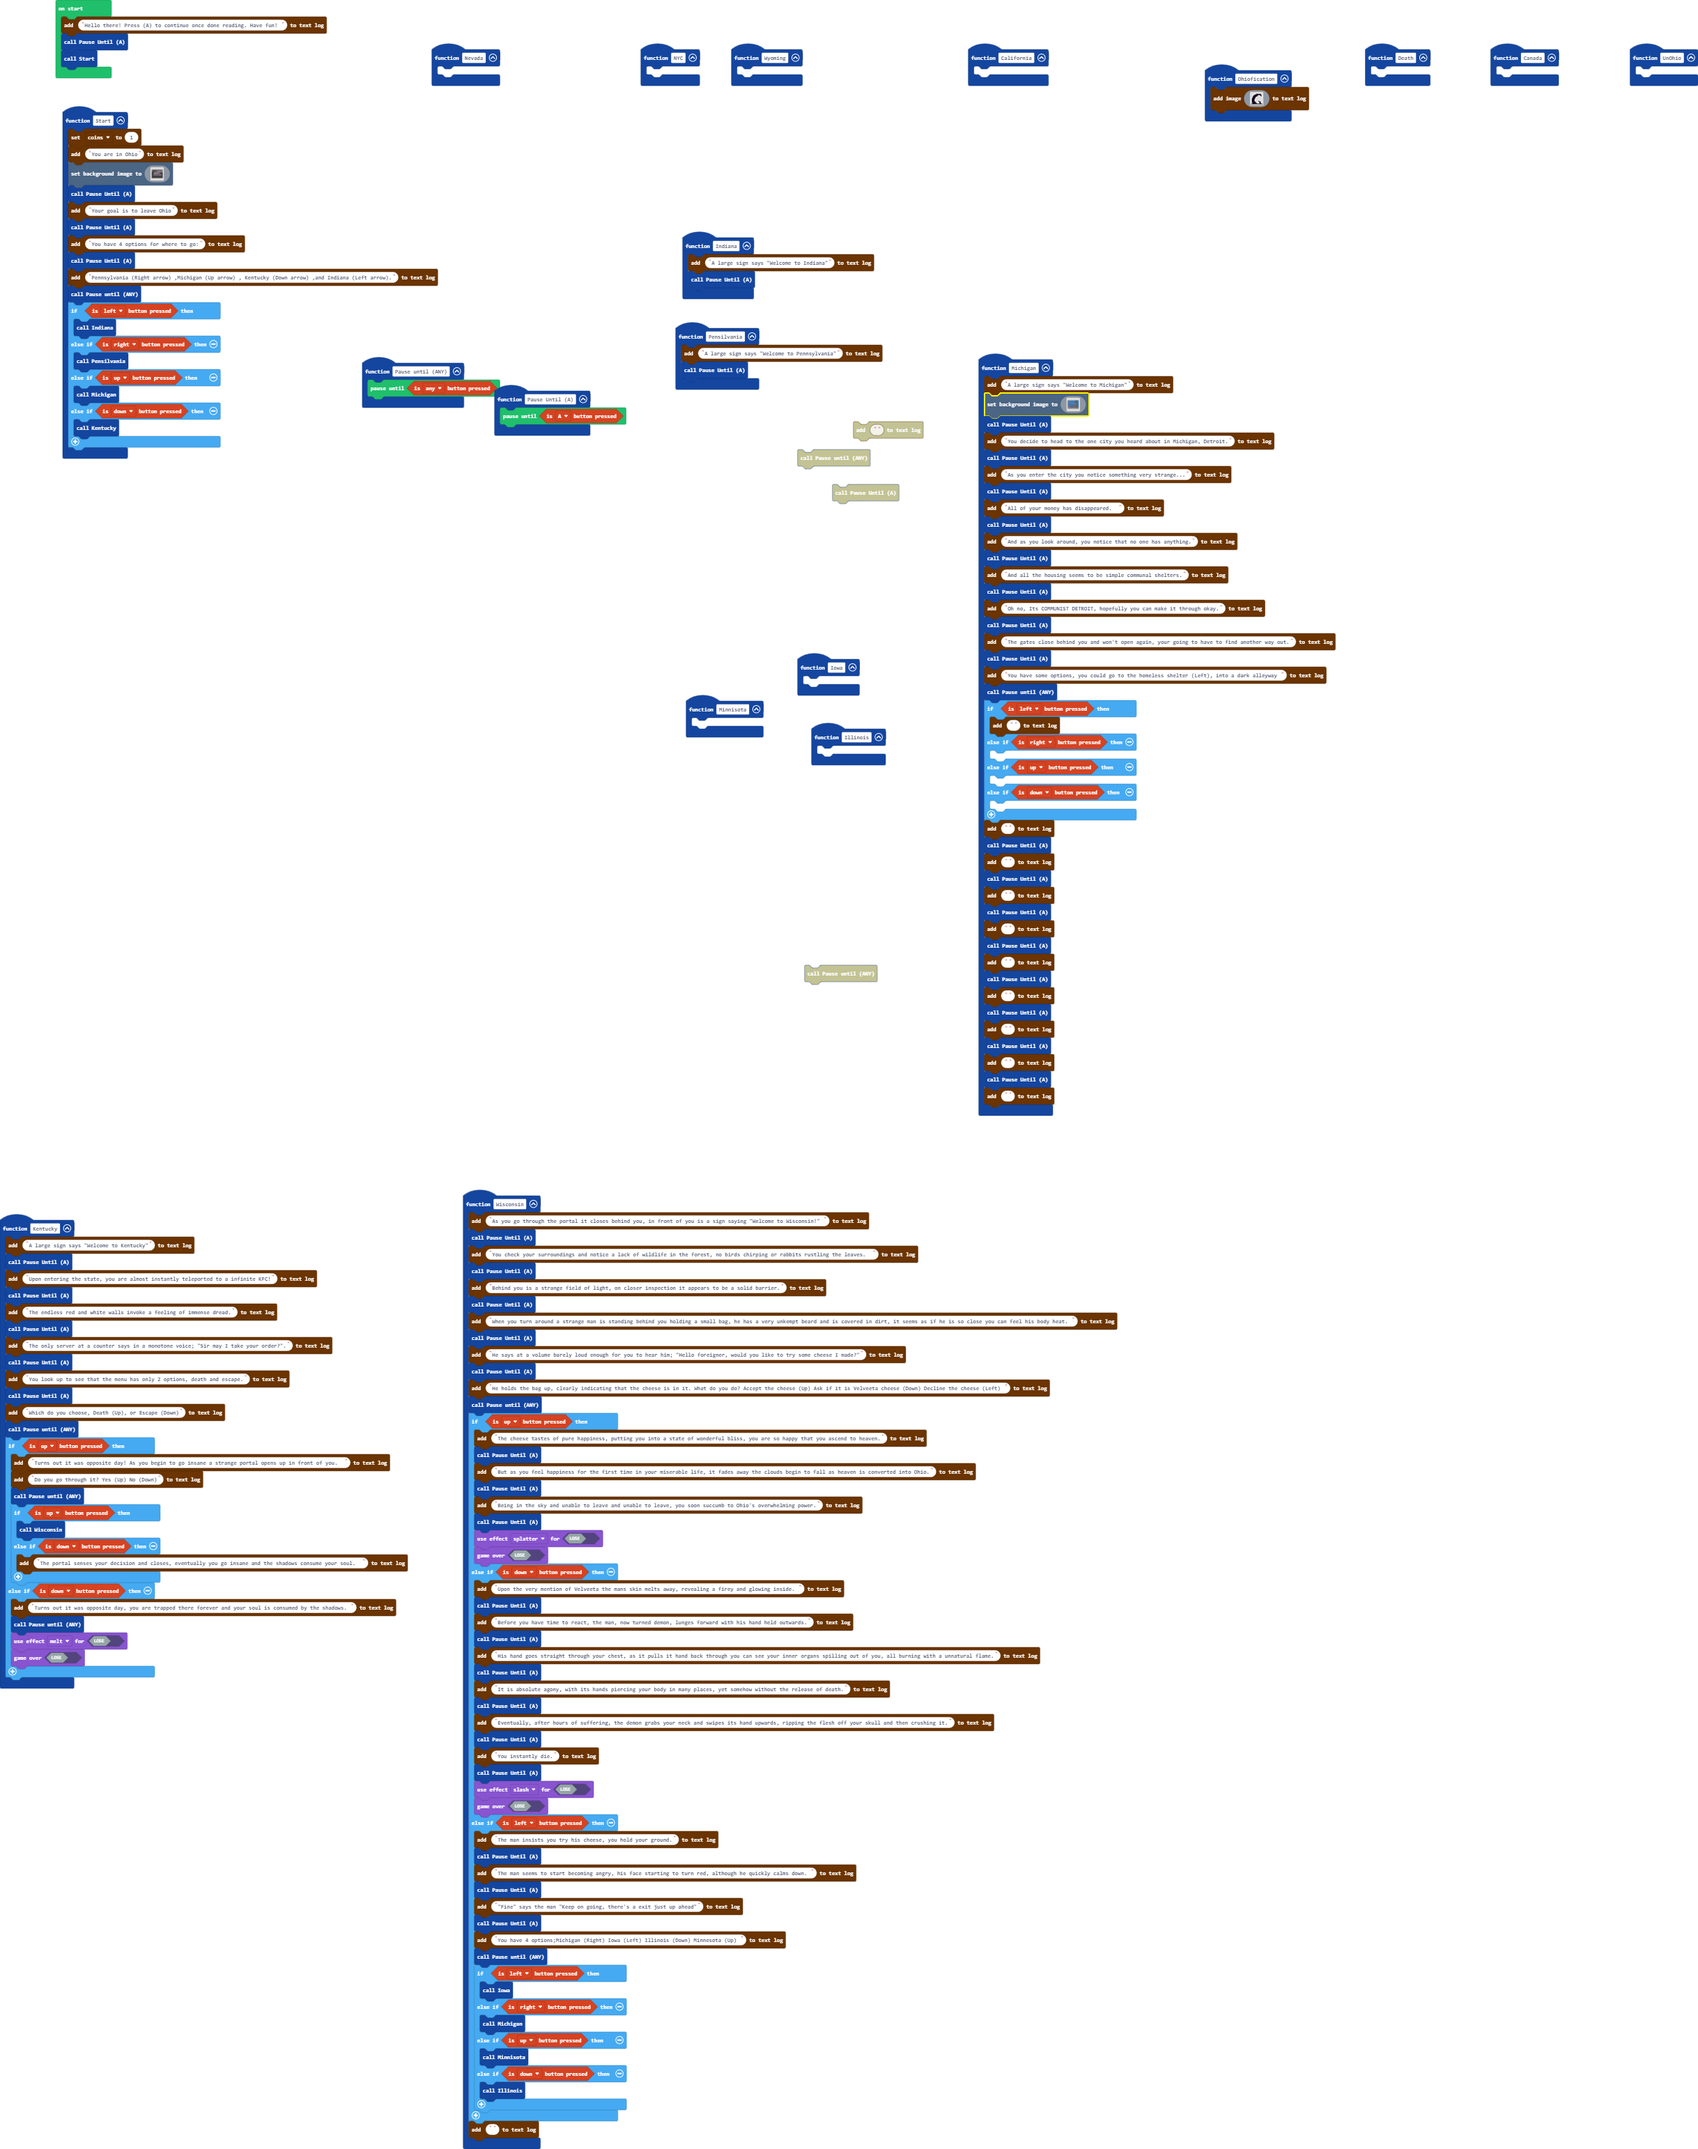
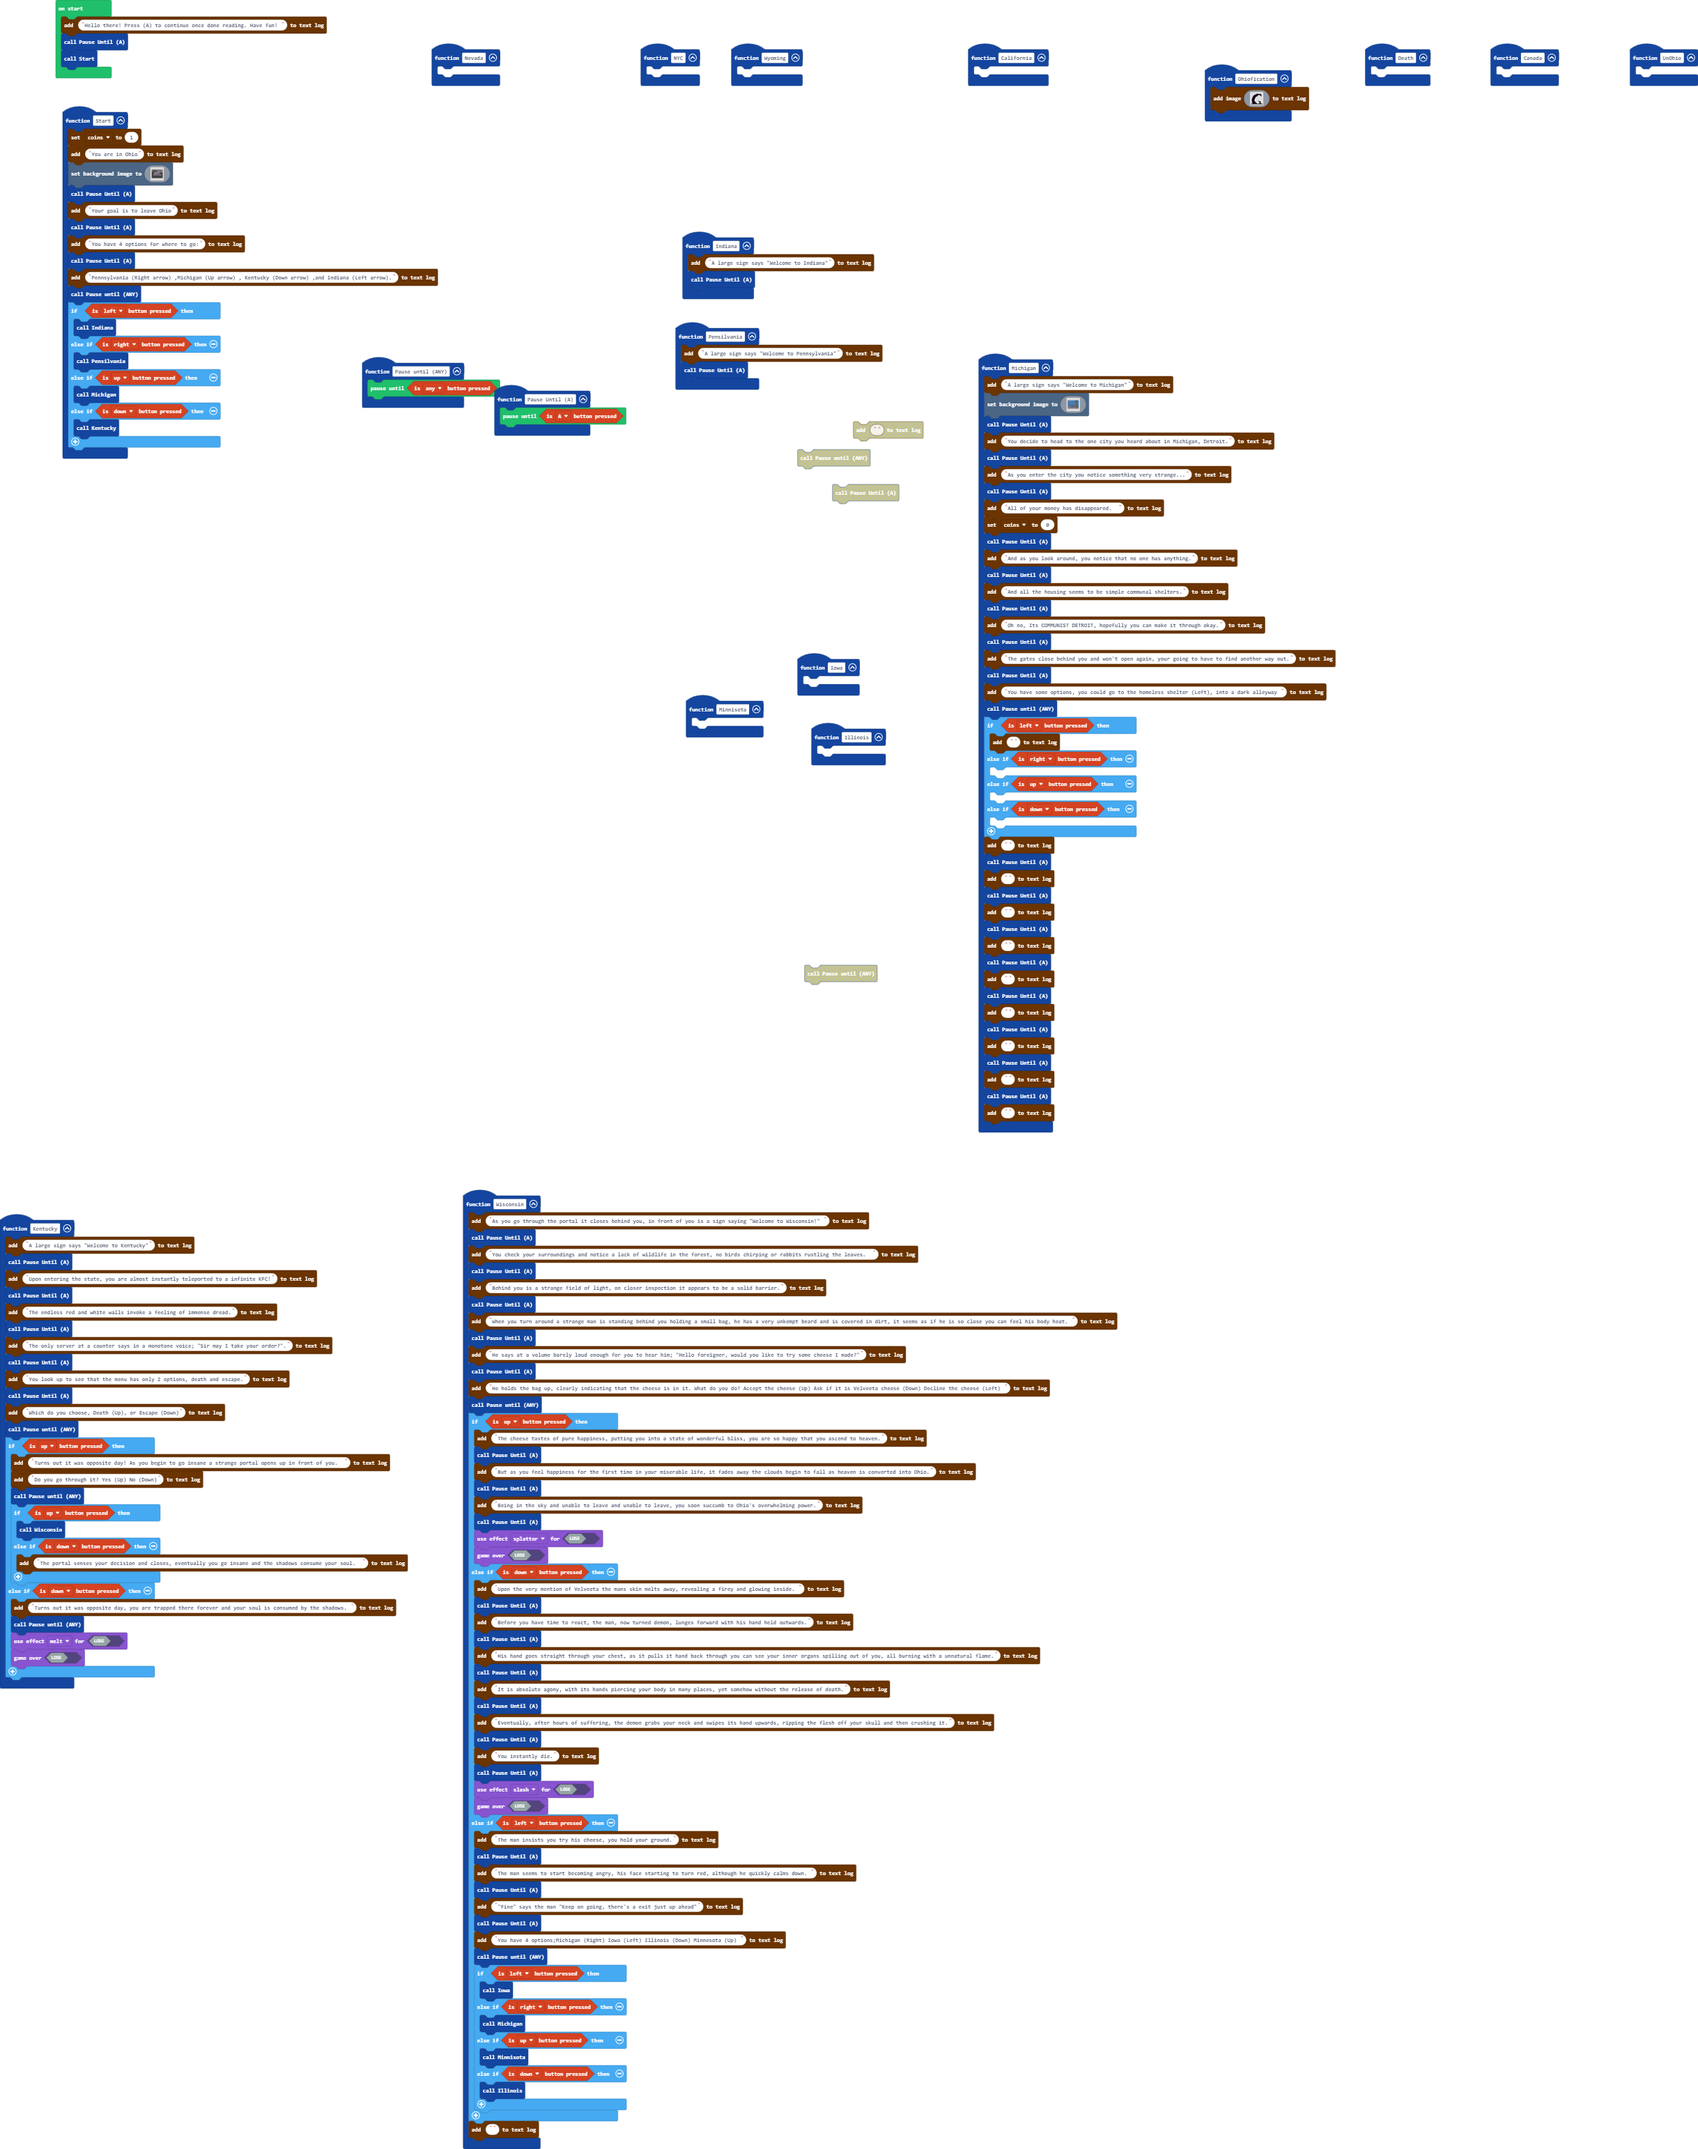
Update main.blocks, main.ts

Changed region(s): [[0.5613, 0.2179, 0.8108, 0.5292]]

diff --git a/main.ts b/main.ts
@@ -282,6 +282,7 @@ function Michigan () {
     adventure.addToTextlog("As you enter the city you notice something very strange...")
     Pause_Until_A()
     adventure.addToTextlog("All of your money has disappeared.  ")
+    adventure.setScoreOverride(adventure.Currency.Coins, 0)
     Pause_Until_A()
     adventure.addToTextlog("And as you look around, you notice that no one has anything.")
     Pause_Until_A()
